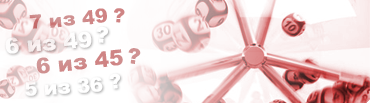
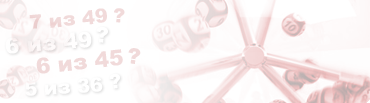
new css, and res image

diff --git a/Resources/public/css/style.css b/Resources/public/css/style.css
@@ -370,7 +370,7 @@ a#clear-all{
 	border: 1px #d6dade solid;
 	border-radius: 2px;
 	padding: 2px 5px;
-	width: 50px;
+	width: 94px;
 	text-align: right;
 }
 .straight-table td input[readonly="readonly"],
@@ -909,4 +909,13 @@ i.IRL{
 .ui-tabs .ui-tabs-panel{
 	padding: 1em 8px;
 }.choice{width: 220px;}.schedule tbody td a{color: #FFFFFF;}
-
+.schedule-wrap  .schedule .dotw {
+    background: url(../images/act_day.png);
+	width: 70px;
+	height: 15px;
+}
+.schedule-wrap  .schedule .dotw_top {
+    background: url(../images/block-title-green.png) repeat-x scroll left top;
+	width: 70px;
+	height: 44px;
+}
